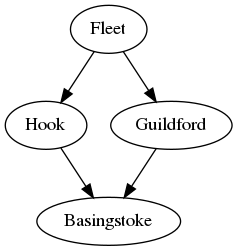
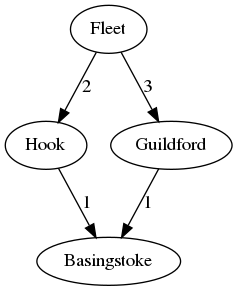
Updated files with distances

Changed region(s): [[0.0295, 0.0, 0.9747, 1.0], [0.0295, 0.5299, 0.3544, 0.6972], [0.0, 0.4741, 0.0295, 0.5299]]

diff --git a/OO_AI_ML_Python_Challenge.html b/OO_AI_ML_Python_Challenge.html
@@ -2,7 +2,7 @@
 
 <p>If I have the travel connection network:</p>
 
-<p><img src="temp.png" alt="Connection Network" /></p>
+<p><img src="graph1.png" alt="Connection Network" /></p>
 
 <p>(The links are shown going in one direction, but (for now, at least) assume that you can move along them in either direction. That is, the connection between Fleet and Hook is shown, but it is also allowed to travel from Hook to Fleet)</p>
 
@@ -38,7 +38,7 @@ strict digraph {
 
 <p>Then, add a third in-between node. e.g.:</p>
 
-<p><img src="temp2.png" alt="Third node added" /></p>
+<p><img src="graph2.png" alt="Third node added" /></p>
 
 <!--
 strict digraph {

diff --git a/OO_AI_ML_Python_Challenge.md b/OO_AI_ML_Python_Challenge.md
@@ -61,5 +61,5 @@ strict digraph {
 
 Does your code cope with this? If not, why not - is it because you need a better way to represent the data, or have you made assumptions in your code about the "shape" of the data, perhaps?
 
-[graph1]: temp.png
-[graph2]: temp2.png
+[graph1]: graph1.png
+[graph2]: graph2.png
